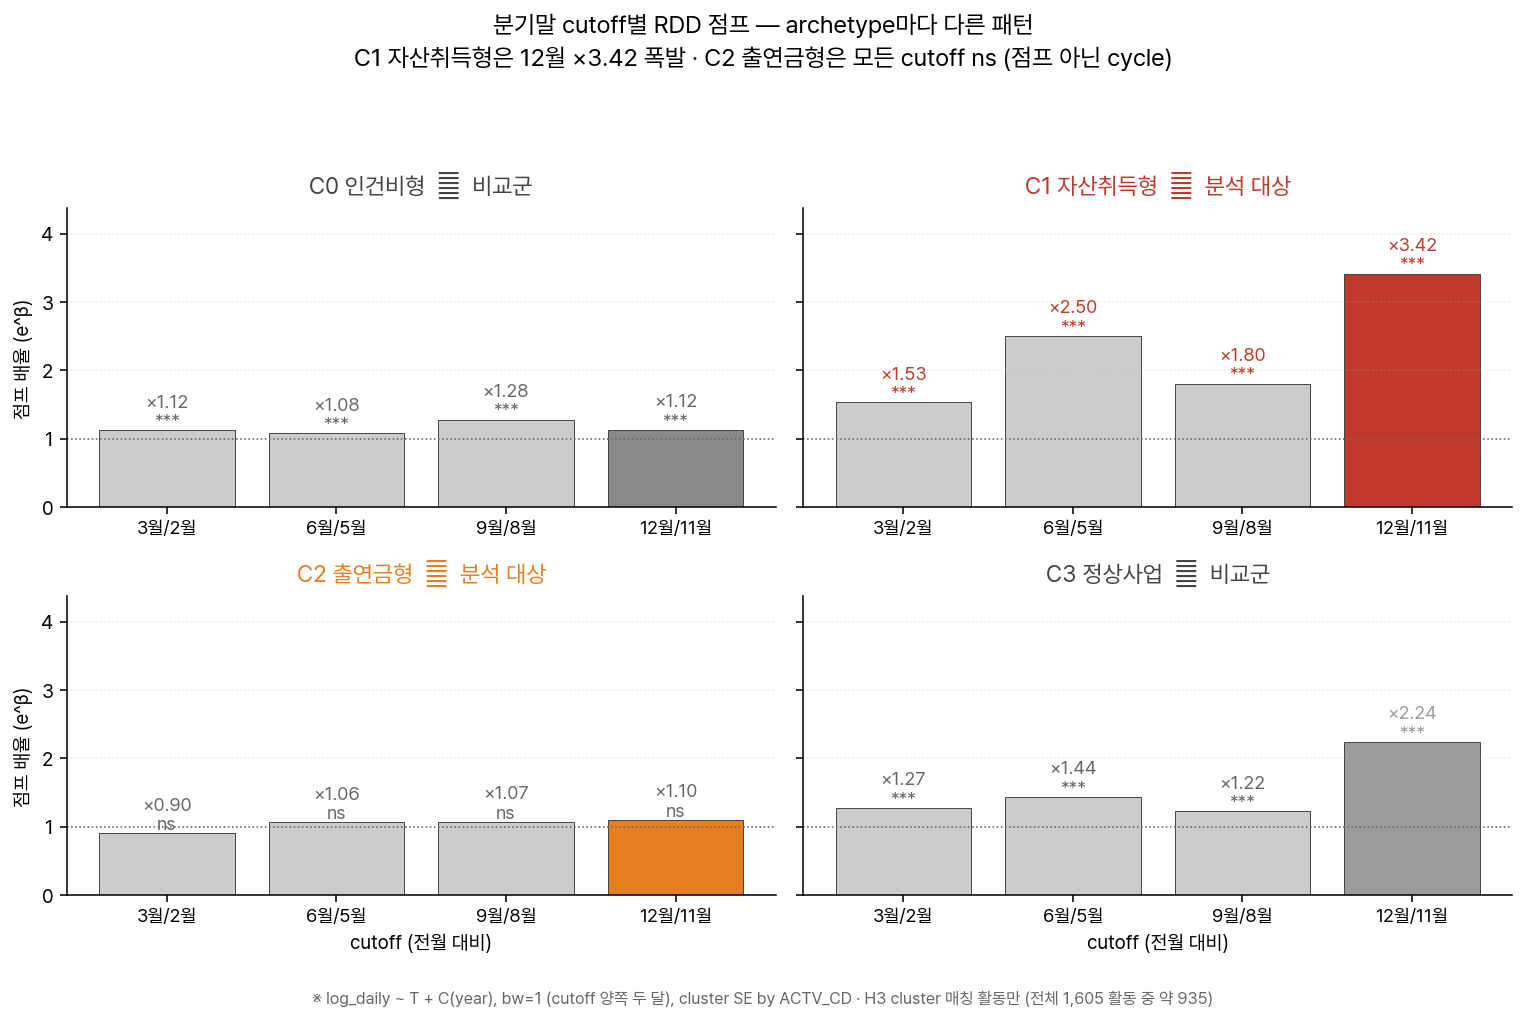
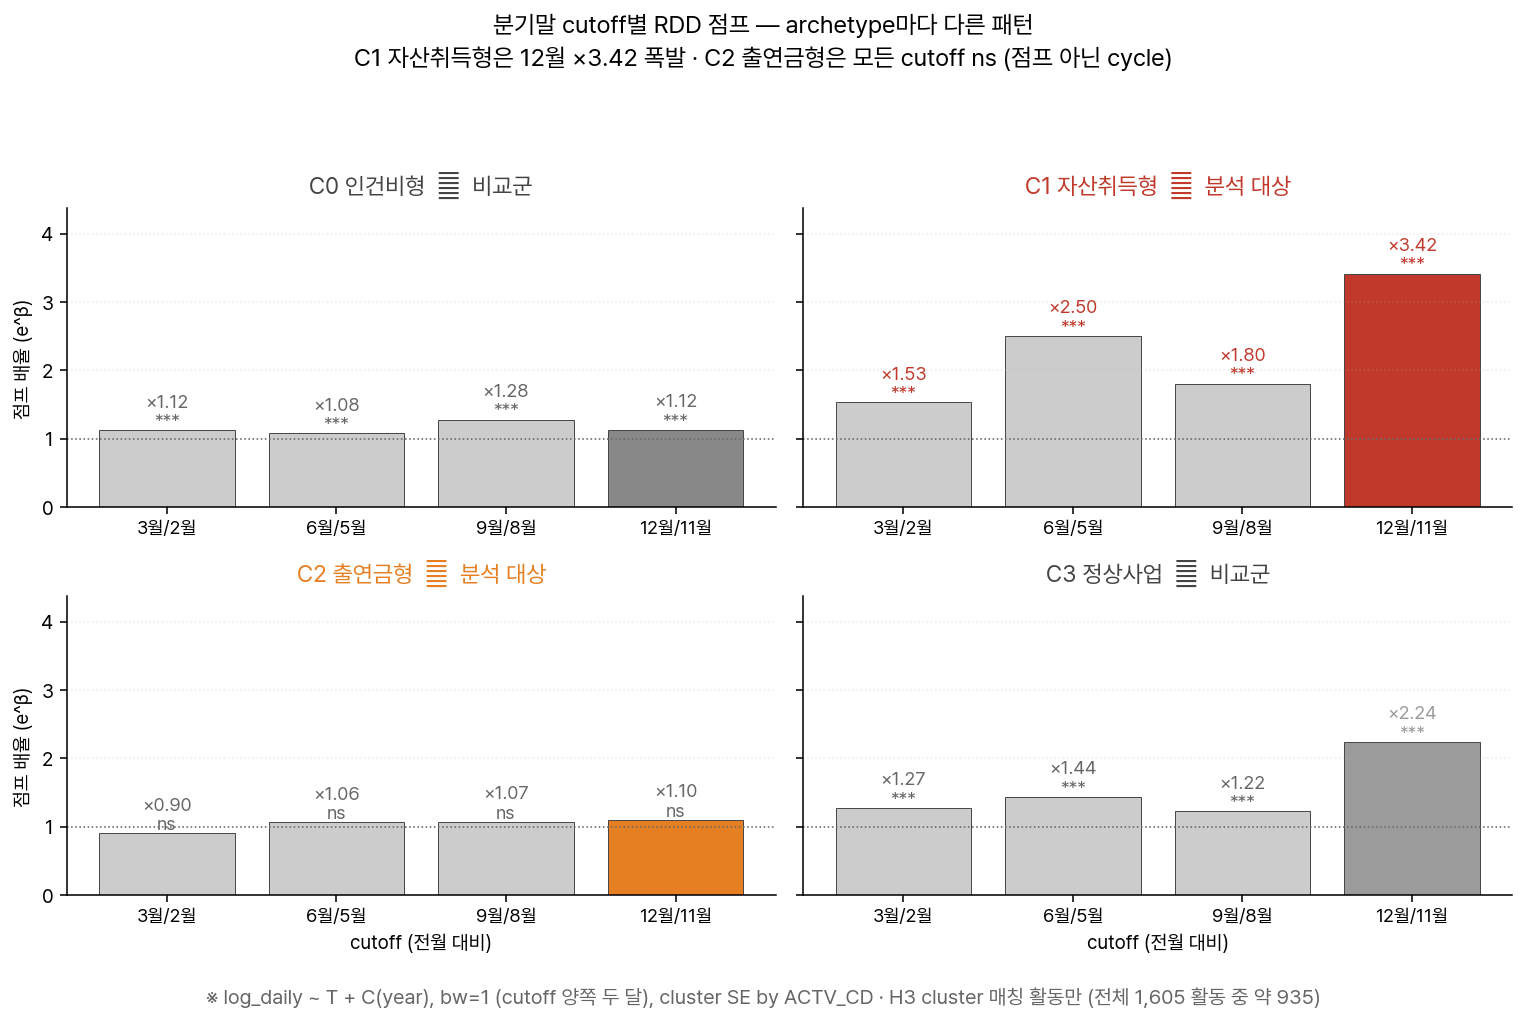
차트 텍스트 직관화 4차 — 작은 각주·범례 폰트 확대
- fig_slide22_cutoff_bars: 하단 각주 fontsize 8.5→10.5
- h29_np_forecast: footer 범례 fontsize 10→12 + 저장 dpi 100→140 (전체 선명도)

diff --git a/scripts/slides/build_slide29_np_forecast.py b/scripts/slides/build_slide29_np_forecast.py
@@ -265,10 +265,10 @@ def main():
     # legend 대신 footer 한 줄 — gridspec 밖에서 안 겹침
     fig.text(0.5, 0.025,
              '검정 실측 (2015–2025)   ·   색깔 line 예측 (2026, AR-Net 포함)   ·   음영 90% CI',
-             ha='center', va='bottom', fontsize=10, color='#555')
+             ha='center', va='bottom', fontsize=12, color='#555')
 
     OUT_PATH.parent.mkdir(parents=True, exist_ok=True)
-    plt.savefig(OUT_PATH, dpi=100, facecolor='white')
+    plt.savefig(OUT_PATH, dpi=140, facecolor='white')
     plt.close()
 
     # 결과 보고

diff --git a/scripts/_archive/build_slide_extras.py b/scripts/_archive/build_slide_extras.py
@@ -106,7 +106,7 @@ fig.text(0.5, -0.01,
          f'※ log_daily ~ T + C(year), bw=1 (cutoff 양쪽 두 달), '
          f'cluster SE by ACTV_CD · '
          f'H3 cluster 매칭 활동만 (전체 1,605 활동 중 약 935)',
-         ha='center', fontsize=8.5, color='#666', style='italic')
+         ha='center', fontsize=10.5, color='#666', style='italic')
 
 plt.tight_layout(rect=[0, 0.02, 1, 0.94])
 out22 = out_dir / 'fig_slide22_cutoff_bars.png'
